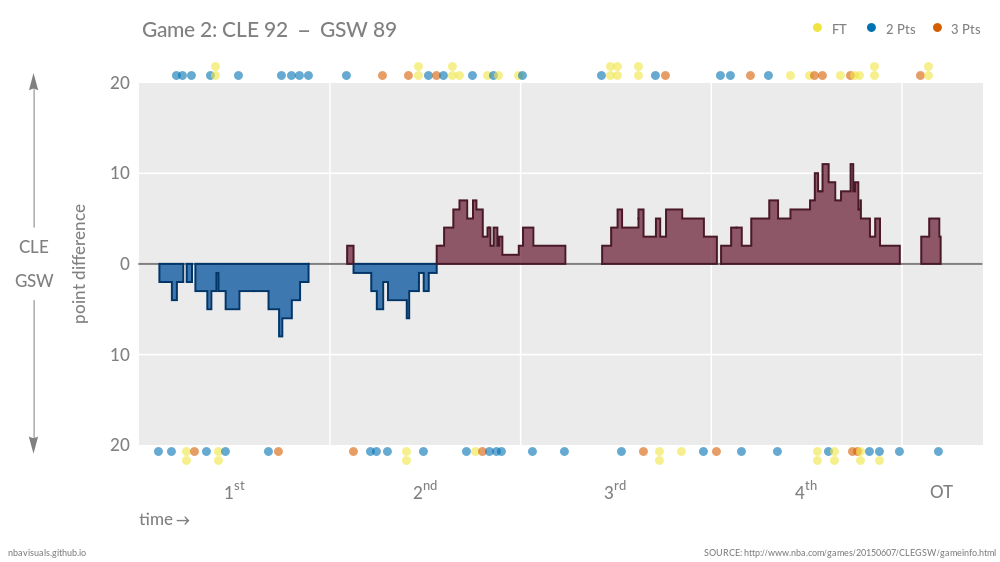
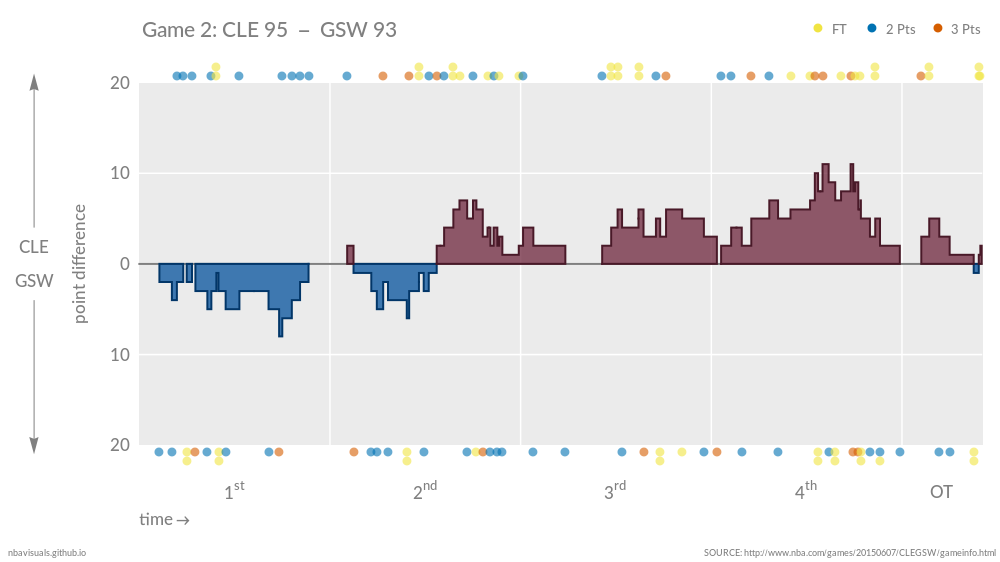
finals gm2

diff --git a/CLE_GSW.html b/CLE_GSW.html
@@ -249,6 +249,12 @@ Cleveland - Golden State
 <map name="2">
 <area shape="rect" coords="704,559,996,539" href="http://www.nba.com/games/20150607/CLEGSW/gameinfo.html" />
 <area shape="rect" coords="7,559,85,539" href="http://nbavisuals.github.io" />
+<area shape="rect" coords="975,250,983,242" title="95-93" nohref="" />
+<area shape="rect" coords="974,259,982,251" title="94-93" nohref="" />
+<area shape="rect" coords="974,268,982,260" title="93-93" nohref="" />
+<area shape="rect" coords="969,277,977,269" title="92-93" nohref="" />
+<area shape="rect" coords="969,268,977,260" title="92-92" nohref="" />
+<area shape="rect" coords="945,259,953,251" title="92-91" nohref="" />
 <area shape="rect" coords="934,241,942,233" title="92-89" nohref="" />
 <area shape="rect" coords="924,223,932,215" title="92-87" nohref="" />
 <area shape="rect" coords="924,232,932,224" title="91-87" nohref="" />
@@ -352,7 +358,13 @@ Cleveland - Golden State
 <area shape="rect" coords="172,286,180,278" title="2-4" nohref="" />
 <area shape="rect" coords="167,304,175,296" title="0-4" nohref="" />
 <area shape="rect" coords="154,286,162,278" title="0-2" nohref="" />
-<area shape="rect" coords="932,458,944,446" title="02:39 - Green Layup Shot: Made (8 PTS), 92-89" nohref="" />
+<area shape="rect" coords="973,82,985,70" title="00:04 - James Free Throw 2 of 2 (39 PTS), 95-93" nohref="" />
+<area shape="rect" coords="972,73,984,61" title="00:10 - Dellavedova Free Throw 2 of 2 (9 PTS), 94-93" nohref="" />
+<area shape="rect" coords="972,82,984,70" title="00:10 - Dellavedova Free Throw 1 of 2 (8 PTS), 93-93" nohref="" />
+<area shape="rect" coords="967,467,979,455" title="00:29 - Curry Free Throw 2 of 2 (19 PTS), 92-93" nohref="" />
+<area shape="rect" coords="967,458,979,446" title="00:29 - Curry Free Throw 1 of 2 (18 PTS), 92-92" nohref="" />
+<area shape="rect" coords="943,458,955,446" title="02:00 - Green Putback Layup Shot: Made (10 PTS), 92-91" nohref="" />
+<area shape="rect" coords="932,458,944,446" title="02:39 - Green Putback Layup Shot: Made (8 PTS), 92-89" nohref="" />
 <area shape="rect" coords="922,73,934,61" title="03:17 - James Free Throw 2 of 2 (38 PTS), 92-87" nohref="" />
 <area shape="rect" coords="922,82,934,70" title="03:17 - James Free Throw 1 of 2 (37 PTS), 91-87" nohref="" />
 <area shape="rect" coords="914,82,926,70" title="03:47 - Shumpert 3pt Shot: Made (7 PTS) Assist: James (11 AST), 90-87" nohref="" />

diff --git a/CLEGSW_Game2.html b/CLEGSW_Game2.html
@@ -19,6 +19,12 @@
 <map name="map_1">
 <area shape="rect" coords="704,559,996,539" href="http://www.nba.com/games/20150607/CLEGSW/gameinfo.html" />
 <area shape="rect" coords="7,559,85,539" href="http://nbavisuals.github.io" />
+<area shape="rect" coords="975,250,983,242" title="95-93" nohref="" />
+<area shape="rect" coords="974,259,982,251" title="94-93" nohref="" />
+<area shape="rect" coords="974,268,982,260" title="93-93" nohref="" />
+<area shape="rect" coords="969,277,977,269" title="92-93" nohref="" />
+<area shape="rect" coords="969,268,977,260" title="92-92" nohref="" />
+<area shape="rect" coords="945,259,953,251" title="92-91" nohref="" />
 <area shape="rect" coords="934,241,942,233" title="92-89" nohref="" />
 <area shape="rect" coords="924,223,932,215" title="92-87" nohref="" />
 <area shape="rect" coords="924,232,932,224" title="91-87" nohref="" />
@@ -122,7 +128,13 @@
 <area shape="rect" coords="172,286,180,278" title="2-4" nohref="" />
 <area shape="rect" coords="167,304,175,296" title="0-4" nohref="" />
 <area shape="rect" coords="154,286,162,278" title="0-2" nohref="" />
-<area shape="rect" coords="932,458,944,446" title="02:39 - Green Layup Shot: Made (8 PTS), 92-89" nohref="" />
+<area shape="rect" coords="973,82,985,70" title="00:04 - James Free Throw 2 of 2 (39 PTS), 95-93" nohref="" />
+<area shape="rect" coords="972,73,984,61" title="00:10 - Dellavedova Free Throw 2 of 2 (9 PTS), 94-93" nohref="" />
+<area shape="rect" coords="972,82,984,70" title="00:10 - Dellavedova Free Throw 1 of 2 (8 PTS), 93-93" nohref="" />
+<area shape="rect" coords="967,467,979,455" title="00:29 - Curry Free Throw 2 of 2 (19 PTS), 92-93" nohref="" />
+<area shape="rect" coords="967,458,979,446" title="00:29 - Curry Free Throw 1 of 2 (18 PTS), 92-92" nohref="" />
+<area shape="rect" coords="943,458,955,446" title="02:00 - Green Putback Layup Shot: Made (10 PTS), 92-91" nohref="" />
+<area shape="rect" coords="932,458,944,446" title="02:39 - Green Putback Layup Shot: Made (8 PTS), 92-89" nohref="" />
 <area shape="rect" coords="922,73,934,61" title="03:17 - James Free Throw 2 of 2 (38 PTS), 92-87" nohref="" />
 <area shape="rect" coords="922,82,934,70" title="03:17 - James Free Throw 1 of 2 (37 PTS), 91-87" nohref="" />
 <area shape="rect" coords="914,82,926,70" title="03:47 - Shumpert 3pt Shot: Made (7 PTS) Assist: James (11 AST), 90-87" nohref="" />
